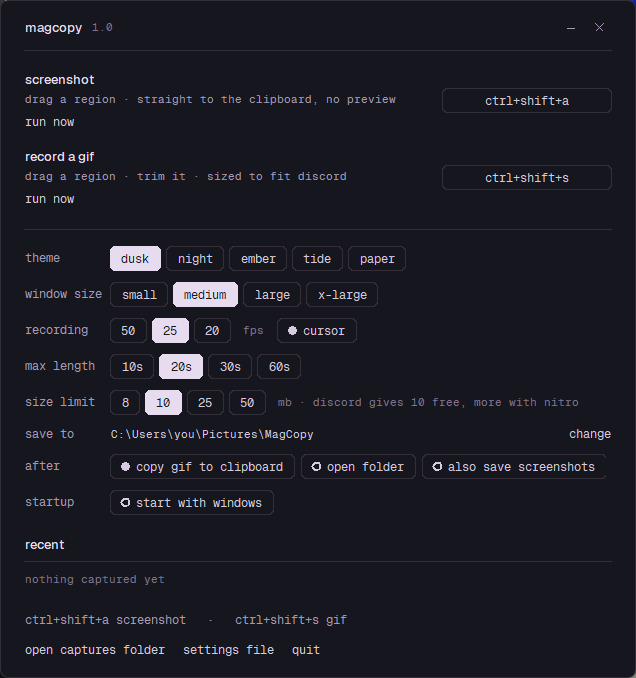
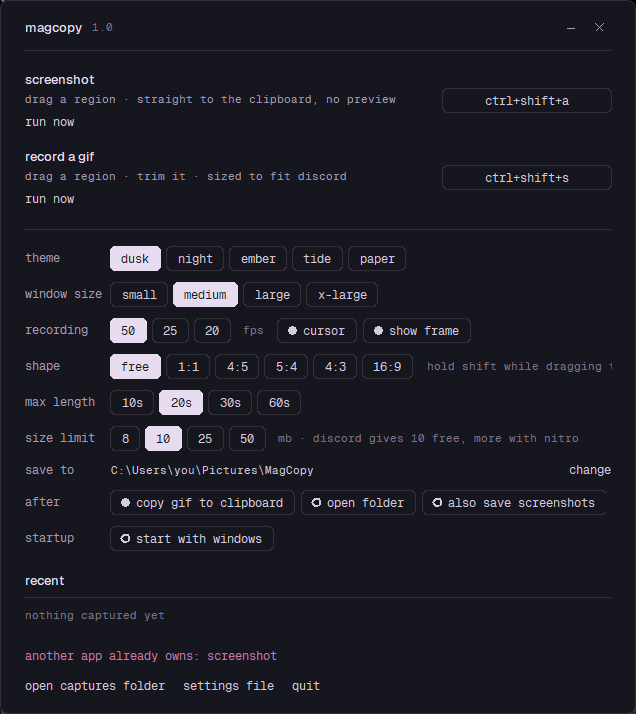
Something to aim with, and an optional locked aspect ratio
There was nothing on screen showing where the pointer was while choosing a
region. The cursor was hidden in favour of drawn guides, and the guides were two
always-on-top one-pixel windows that Windows reported as mapped while
compositing nothing at all - so the screen showed neither. Widening them to two
pixels and forcing them to the top changed nothing.

The cursor is a real crosshair again, and the guide is a short cross drawn near
the pointer on the layer that demonstrably paints. That also happens to be the
cheapest of the three: 0.08 ms per move, against 0.2 ms for moving windows and
24 ms for the full-screen canvas lines this started as.

New "shape" setting: free, or hold every selection to 1:1, 4:5, 5:4, 4:3 or 16:9.
Holding shift overrides it for one drag, and with no shape set shift still means
square. The constraint is applied, then the box is clamped to the desktop, then
the constraint is applied again - clamping a ratio-locked box at a screen edge
otherwise bends it back out of shape, which is the one thing a lock is for.

diff --git a/magcopy/overlay.py b/magcopy/overlay.py
@@ -21,10 +21,14 @@ Tk's image subsystem costs ~300 ms on its very first PhotoImage; `prewarm` pays 
 startup so the first frozen capture is as fast as the tenth. The live mode needs no image at all,
 so it opens instantly.
 
-The crosshair is two thin windows that get moved, not two lines on the canvas. Moving a
-full-screen line item forces Tk to repaint - and, on a layered window, recomposite - a damage
-region the size of the screen, which measured 24 ms per mouse move: visibly laggy just hovering
-around deciding where to drag. Moving two 1-pixel windows costs 0.2 ms.
+Aiming: a real crosshair cursor, plus a small drawn cross at the pointer. Two earlier attempts
+are worth not repeating. Full-screen guide lines on the canvas cost 24 ms per mouse move, because
+moving a line that long forces a repaint - and on a layered window a recomposite - the size of the
+screen; that is visible lag just hovering around deciding where to drag. Moving thin always-on-top
+windows instead is fast, but Windows reports a one- or two-pixel layered window as mapped while
+compositing nothing at all, which left the screen with no indication of where the pointer was.
+A short cross drawn near the cursor costs 0.08 ms and actually appears, and the OS cursor is left
+visible so there is always something to aim with.
 """
 import tkinter as tk
 
@@ -58,13 +62,15 @@ def _lut(factor):
 class RegionSelector:
     """Modal region picker. `run()` returns (x, y, w, h) in virtual-screen pixels, or None."""
 
-    def __init__(self, root, theme, fonts, title="", accent=None, live=False):
+    def __init__(self, root, theme, fonts, title="", accent=None, live=False, ratio=None):
         self.root = root
         self.c = dict(theme.c)
         self.fonts = fonts
         self.title = title
         self.accent = accent or self.c["focus"]
         self.live = live
+        self.ratio = ratio                # width/height the drag is held to, or None for free
+        self.ratio_name = ""              # how to say it in the hint, e.g. "4:5"
         self.result = None
         self.start = None
         self.cur = None
@@ -72,7 +78,6 @@ class RegionSelector:
         self.shift = False
         self.bright = None                # frozen mode only: the still the screenshot is cut from
         self.chrome = None
-        self.cross = []                   # the two crosshair windows
 
     # ---- lifecycle
     def run(self):
@@ -95,7 +100,7 @@ class RegionSelector:
         self.top.overrideredirect(True)
         self.top.geometry("%dx%d+%d+%d" % (vw, vh, vx, vy))
         self.top.attributes("-topmost", True)
-        self.top.configure(bg="#000000", cursor="none")
+        self.top.configure(bg="#000000", cursor="crosshair")
         self.cv = tk.Canvas(self.top, width=vw, height=vh, bd=0, highlightthickness=0, bg="#05060A")
         self.cv.pack(fill="both", expand=True)
 
@@ -140,7 +145,6 @@ class RegionSelector:
             self.top.bind("<Key-%s>" % key, lambda e, a=dx, b=dy: self._nudge(a, b))
         self.top.bind("<Control-a>", lambda e: self._select_all())
 
-        self._build_cross()
         px, py = self.top.winfo_pointerx(), self.top.winfo_pointery()
         self._draw_idle(px - vx, py - vy)
         self.root.wait_window(self.top)
@@ -174,12 +178,6 @@ class RegionSelector:
             self.top.grab_release()
         except Exception:
             pass
-        for t, _ in self.cross:
-            try:
-                t.destroy()
-            except Exception:
-                pass
-        self.cross = []
         for w_ in (self.chrome, getattr(self, "top", None)):
             try:
                 if w_ is not None:
@@ -201,39 +199,22 @@ class RegionSelector:
         self._destroy()
 
     # ---- chrome
-    def _build_cross(self):
-        """Two thin click-through windows. Moving them is ~100x cheaper than redrawing lines."""
-        for wd, ht in ((1, self.vh), (self.vw, 1)):
-            try:
-                t = tk.Toplevel(self.root)
-                t.overrideredirect(True)
-                t.geometry("%dx%d+%d+%d" % (wd, ht, self.vx, self.vy))
-                t.configure(bg=self.c["mute"])
-                t.attributes("-topmost", True)
-                t.deiconify()
-                hwnd = win.toplevel_hwnd(t)
-                win.set_overlay_styles(hwnd)
-                win.set_click_through(hwnd, True, 130)
-                self.cross.append((t, hwnd))
-            except Exception:
-                pass
-
-    def _hide_cross(self):
-        for t, _ in self.cross:
-            try:
-                t.withdraw()
-            except Exception:
-                pass
+    CROSS_ARM = 16                    # half-length of the drawn cross, in pixels
 
     def _build_chrome(self):
         c, cv = self.c, self.draw_cv
+        self.cross_v = cv.create_line(0, 0, 0, 0, fill=self.accent, width=1, state="hidden")
+        self.cross_h = cv.create_line(0, 0, 0, 0, fill=self.accent, width=1, state="hidden")
         self.outline = cv.create_rectangle(0, 0, 0, 0, outline=self.accent, width=1, state="hidden")
         self.ticks = [cv.create_line(0, 0, 0, 0, fill=self.accent, width=2, state="hidden")
                       for _ in range(8)]
         self.badge_bg = cv.create_rectangle(0, 0, 0, 0, fill=c["bg"], outline=c["hair"], state="hidden")
         self.badge_tx = cv.create_text(0, 0, text="", fill=c["ink"], font=self.fonts.mono9,
                                        anchor="nw", state="hidden")
-        hint = self.title or "drag to select   ·   shift = square   ·   esc cancels"
+        if self.ratio:
+            hint = self.title or "drag to select   ·   held to %s   ·   shift frees it   ·   esc cancels" % self.ratio_name
+        else:
+            hint = self.title or "drag to select   ·   shift = square   ·   esc cancels"
         self.hint_bg = cv.create_rectangle(0, 0, 0, 0, fill=c["bg"], outline=c["hair"])
         self.hint_tx = cv.create_text(0, 0, text=hint, fill=c["ink2"], font=self.fonts.mono9, anchor="nw")
         self._place_hint()
@@ -264,9 +245,8 @@ class RegionSelector:
         self.cur = (e.x, e.y)
         self.dragging = True
         cv = self.draw_cv
-        for item in (self.hint_bg, self.hint_tx):
+        for item in (self.hint_bg, self.hint_tx, self.cross_v, self.cross_h):
             cv.itemconfigure(item, state="hidden")
-        self._hide_cross()
         self._redraw()
 
     def _motion(self, e):
@@ -297,25 +277,52 @@ class RegionSelector:
 
     # ---- geometry
     def _rect(self):
+        """The selection, after any shape constraint and after clamping to the desktop.
+
+        Order matters: constrain first, then clamp, then constrain again. Clamping a ratio-locked
+        box at the screen edge otherwise silently changes its shape - which is the one thing a
+        locked ratio is supposed to prevent.
+        """
         if not self.start or not self.cur:
             return None
         x1, y1 = self.start
         x2, y2 = self.cur
-        if self.shift:                                   # square, following the longer side
-            side = max(abs(x2 - x1), abs(y2 - y1))
-            x2 = x1 + (side if x2 >= x1 else -side)
-            y2 = y1 + (side if y2 >= y1 else -side)
+        ratio = None
+        if self.ratio and not self.shift:                # shift is the escape hatch from a lock
+            ratio = self.ratio
+        elif self.shift and not self.ratio:              # plain shift means square
+            ratio = 1.0
+        if ratio:
+            x2, y2 = self._fit_ratio(x1, y1, x2, y2, ratio)
         x, y = min(x1, x2), min(y1, y2)
         wd, ht = abs(x2 - x1), abs(y2 - y1)
         x, y = max(0, x), max(0, y)
         wd, ht = min(wd, self.vw - x), min(ht, self.vh - y)
-        return (x, y, wd, ht)
+        if ratio and wd > 0 and ht > 0:                  # clamping may have bent it: fit inside
+            if wd / ht > ratio:
+                wd = ht * ratio
+            else:
+                ht = wd / ratio
+        return (x, y, int(round(wd)), int(round(ht)))
+
+    def _fit_ratio(self, x1, y1, x2, y2, ratio):
+        """Move the dragged corner so the box is exactly `ratio`, keeping the drag's direction."""
+        wd, ht = abs(x2 - x1), abs(y2 - y1)
+        if ht <= 0 or wd / max(ht, 1e-6) > ratio:        # the drag is wider than the shape wants
+            ht = wd / ratio
+        else:
+            wd = ht * ratio
+        return (x1 + (wd if x2 >= x1 else -wd), y1 + (ht if y2 >= y1 else -ht))
 
     # ---- painting
     def _draw_idle(self, x, y):
-        if len(self.cross) == 2:
-            win.move_window(self.cross[0][1], self.vx + x, self.vy)
-            win.move_window(self.cross[1][1], self.vx, self.vy + y)
+        cv, a = self.draw_cv, self.CROSS_ARM
+        cv.coords(self.cross_v, x, y - a, x, y + a)
+        cv.coords(self.cross_h, x - a, y, x + a, y)
+        cv.itemconfigure(self.cross_v, state="normal")
+        cv.itemconfigure(self.cross_h, state="normal")
+        cv.tag_raise(self.cross_v)
+        cv.tag_raise(self.cross_h)
         self._place_hint()
 
     def _redraw(self):
@@ -384,5 +391,14 @@ class RegionSelector:
         cv.tag_raise(self.badge_tx)
 
 
-def select_region(root, theme, fonts, title="", live=False):
-    return RegionSelector(root, theme, fonts, title, live=live).run()
+def selector_for(root, theme, fonts, settings, title="", live=False):
+    """Build a selector with the aspect ratio the settings ask for."""
+    from .settings import aspect_value
+    name = settings.get("aspect_ratio", "free")
+    sel = RegionSelector(root, theme, fonts, title, live=live, ratio=aspect_value(name))
+    sel.ratio_name = name if sel.ratio else ""
+    return sel
+
+
+def select_region(root, theme, fonts, title="", live=False, ratio=None):
+    return RegionSelector(root, theme, fonts, title, live=live, ratio=ratio).run()

diff --git a/tools/smoke_ratio.py b/tools/smoke_ratio.py
@@ -1,0 +1,85 @@
+"""A locked aspect ratio must survive every drag direction, and the edges of the desktop."""
+import os
+import sys
+
+sys.path.insert(0, os.path.dirname(os.path.dirname(os.path.abspath(__file__))))
+from magcopy.overlay import RegionSelector
+from magcopy.settings import ASPECT_RATIOS, aspect_value
+
+ok = True
+
+
+def check(name, good, detail=""):
+    global ok
+    ok = ok and good
+    print("%-52s %s %s" % (name, "ok  " if good else "FAIL", detail))
+
+
+def sel(ratio=None, shift=False, vw=2000, vh=1200):
+    s = RegionSelector.__new__(RegionSelector)
+    s.ratio, s.shift = ratio, shift
+    s.vw, s.vh = vw, vh
+    s.start = s.cur = None
+    return s
+
+
+def rect(ratio, a, b, shift=False, vw=2000, vh=1200):
+    s = sel(ratio, shift, vw, vh)
+    s.start, s.cur = a, b
+    return s._rect()
+
+
+def is_ratio(r, want, tol=0.02):
+    return r and r[3] > 0 and abs(r[2] / r[3] - want) <= tol
+
+
+# --- every option parses and produces the shape it names
+for name, _ in ASPECT_RATIOS:
+    v = aspect_value(name)
+    if name == "free":
+        check("'free' means no constraint", v is None)
+        continue
+    r = rect(v, (300, 300), (900, 700))
+    check("%-5s drag comes out %s" % (name, name), is_ratio(r, v), "%dx%d" % (r[2], r[3]))
+
+# --- all four drag directions
+V = aspect_value("4:5")
+for label, a, b in (("down-right", (400, 300), (900, 900)),
+                    ("down-left", (900, 300), (400, 900)),
+                    ("up-right", (400, 900), (900, 300)),
+                    ("up-left", (900, 900), (400, 300))):
+    r = rect(V, a, b)
+    check("4:5 holds dragging %s" % label, is_ratio(r, V), "%dx%d at (%d,%d)" % (r[2], r[3], r[0], r[1]))
+
+# --- a wide drag and a tall drag both end up 4:5
+wide = rect(V, (200, 400), (1800, 500))
+tall = rect(V, (200, 100), (300, 1100))
+check("a wide drag is pulled to 4:5", is_ratio(wide, V), "%dx%d" % (wide[2], wide[3]))
+check("a tall drag is pulled to 4:5", is_ratio(tall, V), "%dx%d" % (tall[2], tall[3]))
+
+# --- clamping at the desktop edge must not bend the shape
+edge = rect(V, (1900, 1100), (2600, 1900))
+check("still 4:5 when clamped at the corner", is_ratio(edge, V),
+      "%dx%d at (%d,%d)" % (edge[2], edge[3], edge[0], edge[1]))
+check("clamped box stays on the desktop",
+      edge[0] + edge[2] <= 2000 and edge[1] + edge[3] <= 1200, str(edge))
+top = rect(V, (100, 50), (900, 1400))
+check("still 4:5 when clamped at the bottom", is_ratio(top, V), "%dx%d" % (top[2], top[3]))
+
+# --- shift is the escape hatch from a lock, and means square without one
+free = rect(V, (300, 300), (1200, 500), shift=True)
+check("shift frees a locked ratio", not is_ratio(free, V) and free[2] == 900 and free[3] == 200,
+      "%dx%d" % (free[2], free[3]))
+sq = rect(None, (300, 300), (900, 500), shift=True)
+check("shift alone still means square", sq[2] == sq[3], "%dx%d" % (sq[2], sq[3]))
+fr = rect(None, (300, 300), (900, 500))
+check("no ratio, no shift: free", fr == (300, 300, 600, 200), str(fr))
+
+# --- 16:9 on a wide drag, and 1:1
+r = rect(aspect_value("16:9"), (100, 100), (1700, 300))
+check("16:9 from a wide drag", is_ratio(r, 16 / 9), "%dx%d" % (r[2], r[3]))
+r = rect(1.0, (500, 500), (1300, 700))
+check("1:1 is square", r[2] == r[3], "%dx%d" % (r[2], r[3]))
+
+print("\nASPECT RATIO", "OK" if ok else "PROBLEM")
+sys.exit(0 if ok else 1)

diff --git a/magcopy/app.py b/magcopy/app.py
@@ -28,7 +28,7 @@ from .binaries import TOOLS
 from .editor import GifEditor
 from .optimize import gif_info
 from .recorder import RecordFrame, Recorder
-from .settings import (APP_NAME, APP_VERSION, DEFAULTS, RES_DIR, APP_DIR, SETTINGS_DIR,
+from .settings import (APP_NAME, APP_VERSION, ASPECT_RATIOS, DEFAULTS, RES_DIR, APP_DIR, SETTINGS_DIR,
                        get_autostart, is_first_run, load, log_exc, save, save_dir, set_autostart,
                        stamped_name)
 from .theme import (Button, DotToggle, Fonts, Hairline, HotkeyField, IconButton, Label, Panel,
@@ -172,8 +172,7 @@ class App:
         self.busy = True
         was_visible = self._hide_for_capture()
         try:
-            sel = overlay.RegionSelector(self.root, self.theme, self.fonts,
-                                         "drag to copy a screenshot   ·   shift = square   ·   esc cancels")
+            sel = overlay.selector_for(self.root, self.theme, self.fonts, self.settings)
             rect = sel.run()
             if not rect:
                 return
@@ -208,8 +207,8 @@ class App:
         try:
             # live=True: a recording is about to capture motion, so the screen must keep moving
             # while the region is chosen. Screenshots still freeze, which is right for a still.
-            sel = overlay.RegionSelector(
-                self.root, self.theme, self.fonts,
+            sel = overlay.selector_for(
+                self.root, self.theme, self.fonts, self.settings,
                 "drag to record   ·   %s or esc stops   ·   up to %ds"
                 % (self.settings["hotkey_gif"], self.settings["max_seconds"]), live=True)
             rect = sel.run()
@@ -576,6 +575,13 @@ class App:
                                       lambda v: self._set("show_recording_frame", v), self.scale)
         self.toggle_frame.pack(side="left", padx=(S(6), 0))
         T.add(self.toggle_frame)
+
+        r = row("shape")
+        T.add(Pills(r, F, ASPECT_RATIOS, self.settings["aspect_ratio"],
+                    lambda v: self._set("aspect_ratio", v), self.scale)).pack(side="left")
+        lab = Label(r, role="mute2", text="shift overrides", font=F.mono8, anchor="w")
+        lab.pack(side="left", padx=(S(8), 0))
+        T.add(lab)
 
         r = row("max length")
         T.add(Pills(r, F, LENGTH_CHOICES, self.settings["max_seconds"],

diff --git a/magcopy/settings.py b/magcopy/settings.py
@@ -85,6 +85,7 @@ DEFAULTS = dict(
     max_seconds=20,
     record_fps=50,                        # 50 and 25 divide into exact gif delays; 30 does not
     capture_cursor=True,
+    aspect_ratio="free",                  # "free", or "w:h" - constrains the selection while dragging
     size_limit_mb=10.0,                   # discord's free-tier ceiling
     target_headroom=0.985,                # aim just under the limit, never at it
     play_sound=False,
@@ -133,8 +134,23 @@ def load():
     return validate(s)
 
 
+ASPECT_RATIOS = [("free", "free"), ("1:1", "1:1"), ("4:5", "4:5"), ("5:4", "5:4"),
+                 ("4:3", "4:3"), ("16:9", "16:9")]
+
+
+def aspect_value(name):
+    """"4:5" -> 0.8; "free" or anything unparseable -> None."""
+    try:
+        w, h = (float(v) for v in str(name).split(":"))
+        return w / h if w > 0 and h > 0 else None
+    except Exception:
+        return None
+
+
 def validate(s):
     from .theme import THEMES
+    if s.get("aspect_ratio") not in [k for k, _ in ASPECT_RATIOS]:
+        s["aspect_ratio"] = "free"
     if s.get("theme") not in THEMES:
         s["theme"] = DEFAULTS["theme"]
     try:

diff --git a/tools/run_all_tests.py b/tools/run_all_tests.py
@@ -3,7 +3,7 @@ import os, subprocess, sys, time
 HERE = os.path.dirname(os.path.abspath(__file__))
 TESTS = ["smoke_gifinfo.py", "smoke_defaults.py", "smoke_frame.py", "smoke_overlay.py",
          "smoke_frame_live.py", "smoke_live_overlay.py", "smoke_flow.py",
-         "smoke_pacing.py", "smoke_instance.py", "smoke_crop.py", "smoke_crop_handles.py", "smoke_editor_size.py", "smoke_ui.py", "smoke_editor.py",
+         "smoke_pacing.py", "smoke_instance.py", "smoke_ratio.py", "smoke_crop.py", "smoke_crop_handles.py", "smoke_editor_size.py", "smoke_ui.py", "smoke_editor.py",
          "smoke_pipeline.py", "smoke_realistic.py"]
 
 # constructing App() on a machine with no settings file would register "start with Windows";

diff --git a/README.md b/README.md
@@ -84,6 +84,7 @@ Everything lives in the window, and in `settings.json` next to the script (or `%
 | **theme** | dusk, night, ember, tide, paper |
 | **window size** | small → x-large |
 | **recording** | 50 / 25 / 20 fps (50 by default), cursor on or off, and whether to draw the frame |
+| **shape** | free, or hold every selection to 1:1, 4:5, 5:4, 4:3 or 16:9 — shift overrides it mid-drag |
 | **max length** | 10 / 20 / 30 / 60 seconds |
 | **size limit** | 8 / 10 / 25 / 50 MB — Discord gives 10 free, more with Nitro |
 | **after** | copy the GIF to the clipboard as a file, open the folder, also save screenshots |
@@ -99,7 +100,9 @@ Recording and screenshots pick a region differently, on purpose.
 
 **Screenshots freeze.** That one is deliberate: a menu or a tooltip stays put while you frame it, and what you framed is exactly what you get.
 
-The crosshair is two thin windows that get *moved*, not lines redrawn on a canvas. Moving a full-screen line item forces a repaint — and, on a layered window, a recomposite — the size of the screen: 24 ms per mouse move, which is visible lag just hovering around deciding where to drag. Moving two 1-pixel windows costs 0.2 ms.
+You aim with the OS crosshair cursor plus a small drawn cross at the pointer. Two earlier attempts are worth not repeating: full-screen guide lines on the canvas cost **24 ms per mouse move**, because moving a line that long forces a repaint — and on a layered window a recomposite — the size of the screen, which is visible lag just hovering around deciding where to drag. Moving thin always-on-top windows instead is fast, but Windows reports a one- or two-pixel layered window as *mapped while compositing nothing*, so the screen showed no pointer at all. A short cross near the cursor costs 0.08 ms and actually appears.
+
+With a **shape** set, the drag is held to that ratio — including when it is clamped at the edge of the desktop, which is exactly where a naive implementation quietly bends it back out of shape. Hold shift to override it for one drag; with no shape set, shift means square.
 
 ## While recording
 
